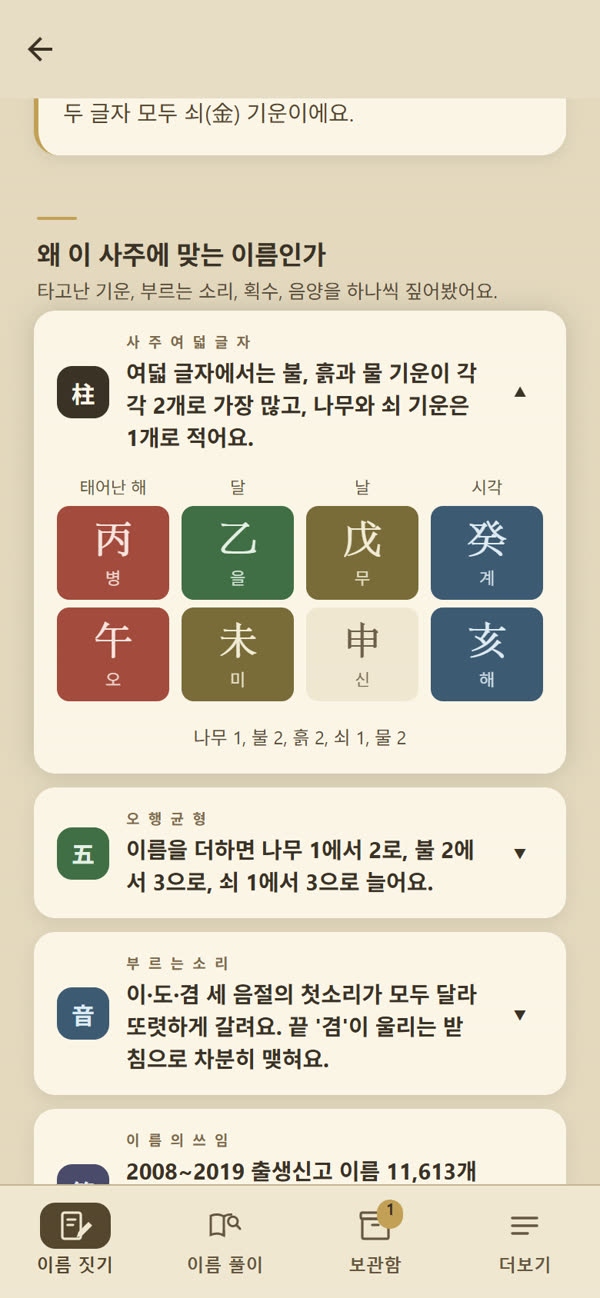
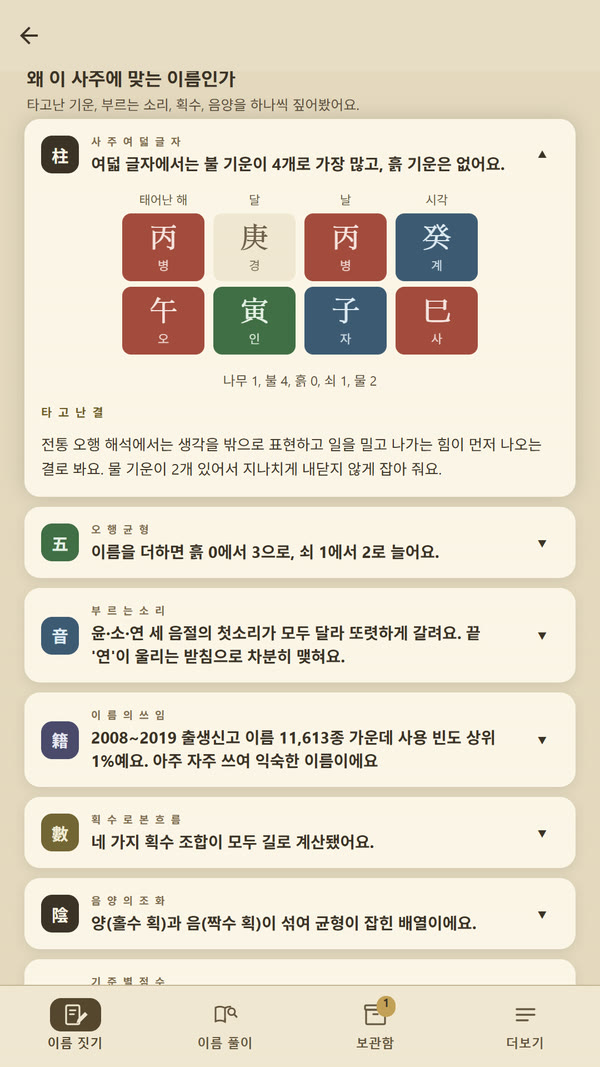
소곤작명 페이지: 새 캡처로 교체, 근거 수치와 가격 추가, 작명소 검증 섹션 신설
스크린샷 5장을 앱팀 최신 캡처로 교체했다. 기존 것은 후보 10개 중
"가장 덜 쓰인 이름"이라고 적힌 화면이라 우리 앱의 제일 약한 결과를
보여주고 있었다. 새 캡처는 추천 1위 기준이다.

근거 수치(인명용 한자 9,089자, 피하는 글자 408자)와 세 기준 비중
45/35/20, 기기 내 계산을 명시했다. 가격은 콘솔 등록이 끝나 확정됐으므로
18,900원과 12,900원을 적었다.

실사용자 인터뷰에서 나온 "작명소 가기 전, 다녀온 뒤" 포지션으로
섹션을 하나 신설했다. 작명소 결과와 일치한다는 주장은 쓰지 않았다.
성명학은 자료마다 갈리므로 일반화할 수 없다. 대신 나란히 놓고 직접
보시라는 초대로 뒀다.

diff --git a/sogonjakmyeong.html b/sogonjakmyeong.html
@@ -146,7 +146,7 @@
             <li>여덟 글자의 <b>오행 분포</b>를 세어 보여드려요. 여기까지 무료.</li>
             <li>지금 쓰는 이름의 <b>기운과 소리, 획수, 음양</b>을 풀이해요. 이것도 무료.</li>
             <li>아이 이름을 이미 정하신 분도, 자기 이름이 궁금한 분도 쓰실 수 있어요.</li>
-            <li>유료는 <b>작명서 하나</b>뿐이에요. 구독도, 광고도 없습니다.</li>
+            <li>유료는 <b>작명서 하나</b>뿐이에요. 아기 이름과 이름 풀이의 작명서가 <b>18,900원</b>, 예명과 활동명이 <b>12,900원</b>. 구독도, 광고도 없습니다.</li>
           </ul>
         </div>
       </div>
@@ -184,13 +184,34 @@
           <p class="kicker">계산을 여는 태도</p>
           <h2>어떻게 계산하는지<br>전부 열어 둡니다</h2>
           <ul>
-            <li><b>인명용 한자 안에서만</b> 고릅니다. 출생신고에 쓸 수 없는 글자를 추천하지 않아요.</li>
+            <li>대법원 <b>인명용 한자 9,089자</b> 안에서만 고릅니다. 출생신고에 쓸 수 없는 글자를 추천하지 않고, 옛 작명 자료에서 피하는 글자 <b>408자</b>는 따로 표시해요.</li>
             <li>획수는 강희자전 원획으로 세고, 실제로 긋는 획수와 다르면 <b>그 사실도 적습니다.</b></li>
             <li>작명 자료에 따라 견해가 갈리는 글자는 <b>갈린다고 표시</b>합니다.</li>
-            <li>계산 기준은 앱 안에서 공개하고, <b>세 기준의 비중은 직접 바꿀 수</b> 있어요.</li>
-            <li>같은 정보를 넣으면 <b>언제나 같은 결과</b>가 나옵니다.</li>
+            <li>세 기준의 비중은 <b>글자의 기운 45, 부르는 소리 35, 획수 20</b>으로 시작하고 앱 안에서 직접 바꿀 수 있어요.</li>
+            <li>계산은 <b>기기 안에서</b> 합니다. 인터넷이 없어도 사주 분석과 이름 추천이 나오고, 같은 정보를 넣으면 <b>언제나 같은 결과</b>가 나옵니다.</li>
           </ul>
           <div class="quote">회원가입이 없습니다. 입력한 생년월일시와 이름은 기기 안에서만 계산되고 기기에만 남습니다.</div>
+        </div>
+      </div>
+    </div>
+  </section>
+
+  <section>
+    <div class="wrap">
+      <div class="row">
+        <div>
+          <p class="kicker">작명소에 가기 전에도, 다녀오신 뒤에도</p>
+          <h2>받아 오신 이름이 있다면<br>나란히 놓고 보세요</h2>
+          <ul>
+            <li>무엇을 근거로 그런 결과가 나왔는지 <b>계산 과정을 그대로 펼쳐</b> 보여드려요. 사주 여덟 글자의 오행 분포부터 글자와 소리와 획수까지.</li>
+            <li>성명학은 자료마다 해석이 갈리는 대목이 있습니다. <b>갈리는 지점은 갈린다고</b> 적어 두니 어느 쪽 견해인지 직접 보고 판단하실 수 있어요.</li>
+            <li>모든 기준을 다 만족하는 이름은 드뭅니다. 그래서 <b>채운 것과 채우지 못한 것을 함께</b> 적습니다.</li>
+          </ul>
+          <div class="quote">사주 분석과 이름 풀이는 무료입니다. 받아 오신 이름을 넣어 보는 데 드는 비용이 없어요.</div>
+        </div>
+        <div class="media">
+          <img class="shot" src="assets/jak-screen-saju-analysis.jpg" alt="사주 분석 화면, 오행 분포" loading="lazy">
+          <p class="caption">사주 분석은 무료입니다.</p>
         </div>
       </div>
     </div>
